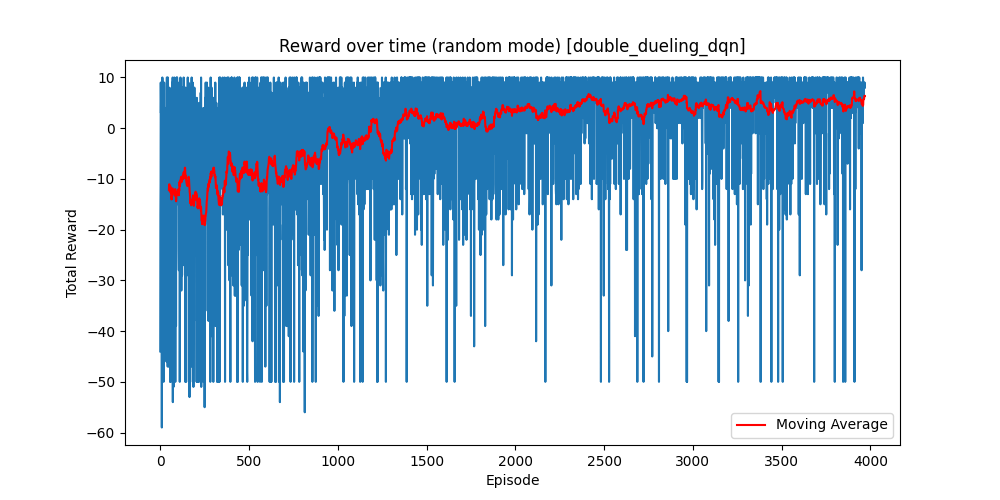
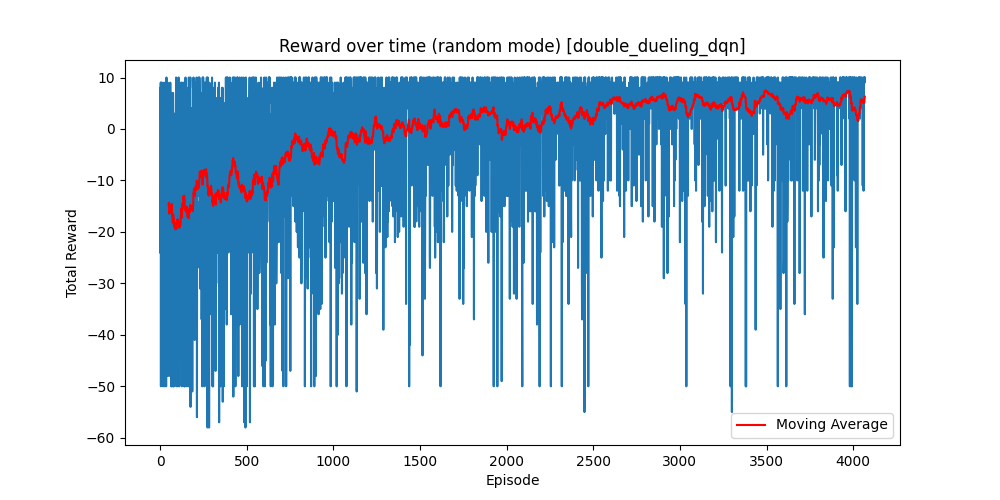
feat: track and plot episode loss, add to README

diff --git a/agent.py b/agent.py
@@ -64,6 +64,9 @@ class GridWorldAgent(pl.LightningModule):
         self.state = get_state(self.env)
         self.episode_reward = 0
         self.episode_rewards = []
+        self.episode_loss_sum = 0
+        self.episode_loss_count = 0
+        self.episode_losses = []
         self.moves = 0
         self.max_moves = 50
         
@@ -128,6 +131,14 @@ class GridWorldAgent(pl.LightningModule):
             self.episode_rewards.append(self.episode_reward)
             self.log('episode_reward', self.episode_reward, prog_bar=True)
             self.episode_reward = 0
+            
+            if getattr(self, 'episode_loss_count', 0) > 0:
+                self.episode_losses.append(self.episode_loss_sum / self.episode_loss_count)
+            else:
+                self.episode_losses.append(0.0)
+            self.episode_loss_sum = 0
+            self.episode_loss_count = 0
+            
             self.moves = 0
             self.env = Gridworld(size=4, mode=self.mode)
             self.state = get_state(self.env)
@@ -165,6 +176,10 @@ class GridWorldAgent(pl.LightningModule):
         
         loss = self.loss_fn(X, Y)
         self.log('train_loss', loss, prog_bar=True)
+        
+        self.episode_loss_sum += loss.item()
+        self.episode_loss_count += 1
+        
         return loss
 
     def on_train_batch_end(self, outputs, batch, batch_idx):

diff --git a/train.py b/train.py
@@ -68,3 +68,22 @@ if __name__ == "__main__":
     plt.savefig(plot_path)
     plt.close()
     print(f"Reward plot saved to {plot_path}")
+    
+    # Plot losses
+    if hasattr(agent, 'episode_losses') and len(agent.episode_losses) > 0:
+        epoch_losses = agent.episode_losses
+        plt.figure(figsize=(10, 5))
+        plt.plot(epoch_losses, color='orange')
+        plt.xlabel('Episode')
+        plt.ylabel('Average Loss')
+        plt.title(f'Loss over time ({args.mode} mode) [{args.algo}]')
+        
+        if len(epoch_losses) >= window:
+            moving_avg_loss = np.convolve(epoch_losses, np.ones(window)/window, mode='valid')
+            plt.plot(np.arange(window-1, len(epoch_losses)), moving_avg_loss, color='red', label='Moving Average')
+            plt.legend()
+            
+        loss_plot_path = f"loss_plot_{args.algo}_{args.mode}_pl.png"
+        plt.savefig(loss_plot_path)
+        plt.close()
+        print(f"Loss plot saved to {loss_plot_path}")

diff --git a/README.md b/README.md
@@ -107,6 +107,10 @@ python train.py --mode random --algo rainbow --steps 50000
 
 ![Lightning Dueling DQN](reward_plot_double_dueling_dqn_random_pl.png)
 
+**引入防撞牆機制後的 loss 收斂圖**
+
+![Loss](loss_plot_double_dueling_dqn_random_pl.png)
+
 ---
 
 ## 🌈 HW3-4 (加分題): Rainbow DQN for Random Mode
